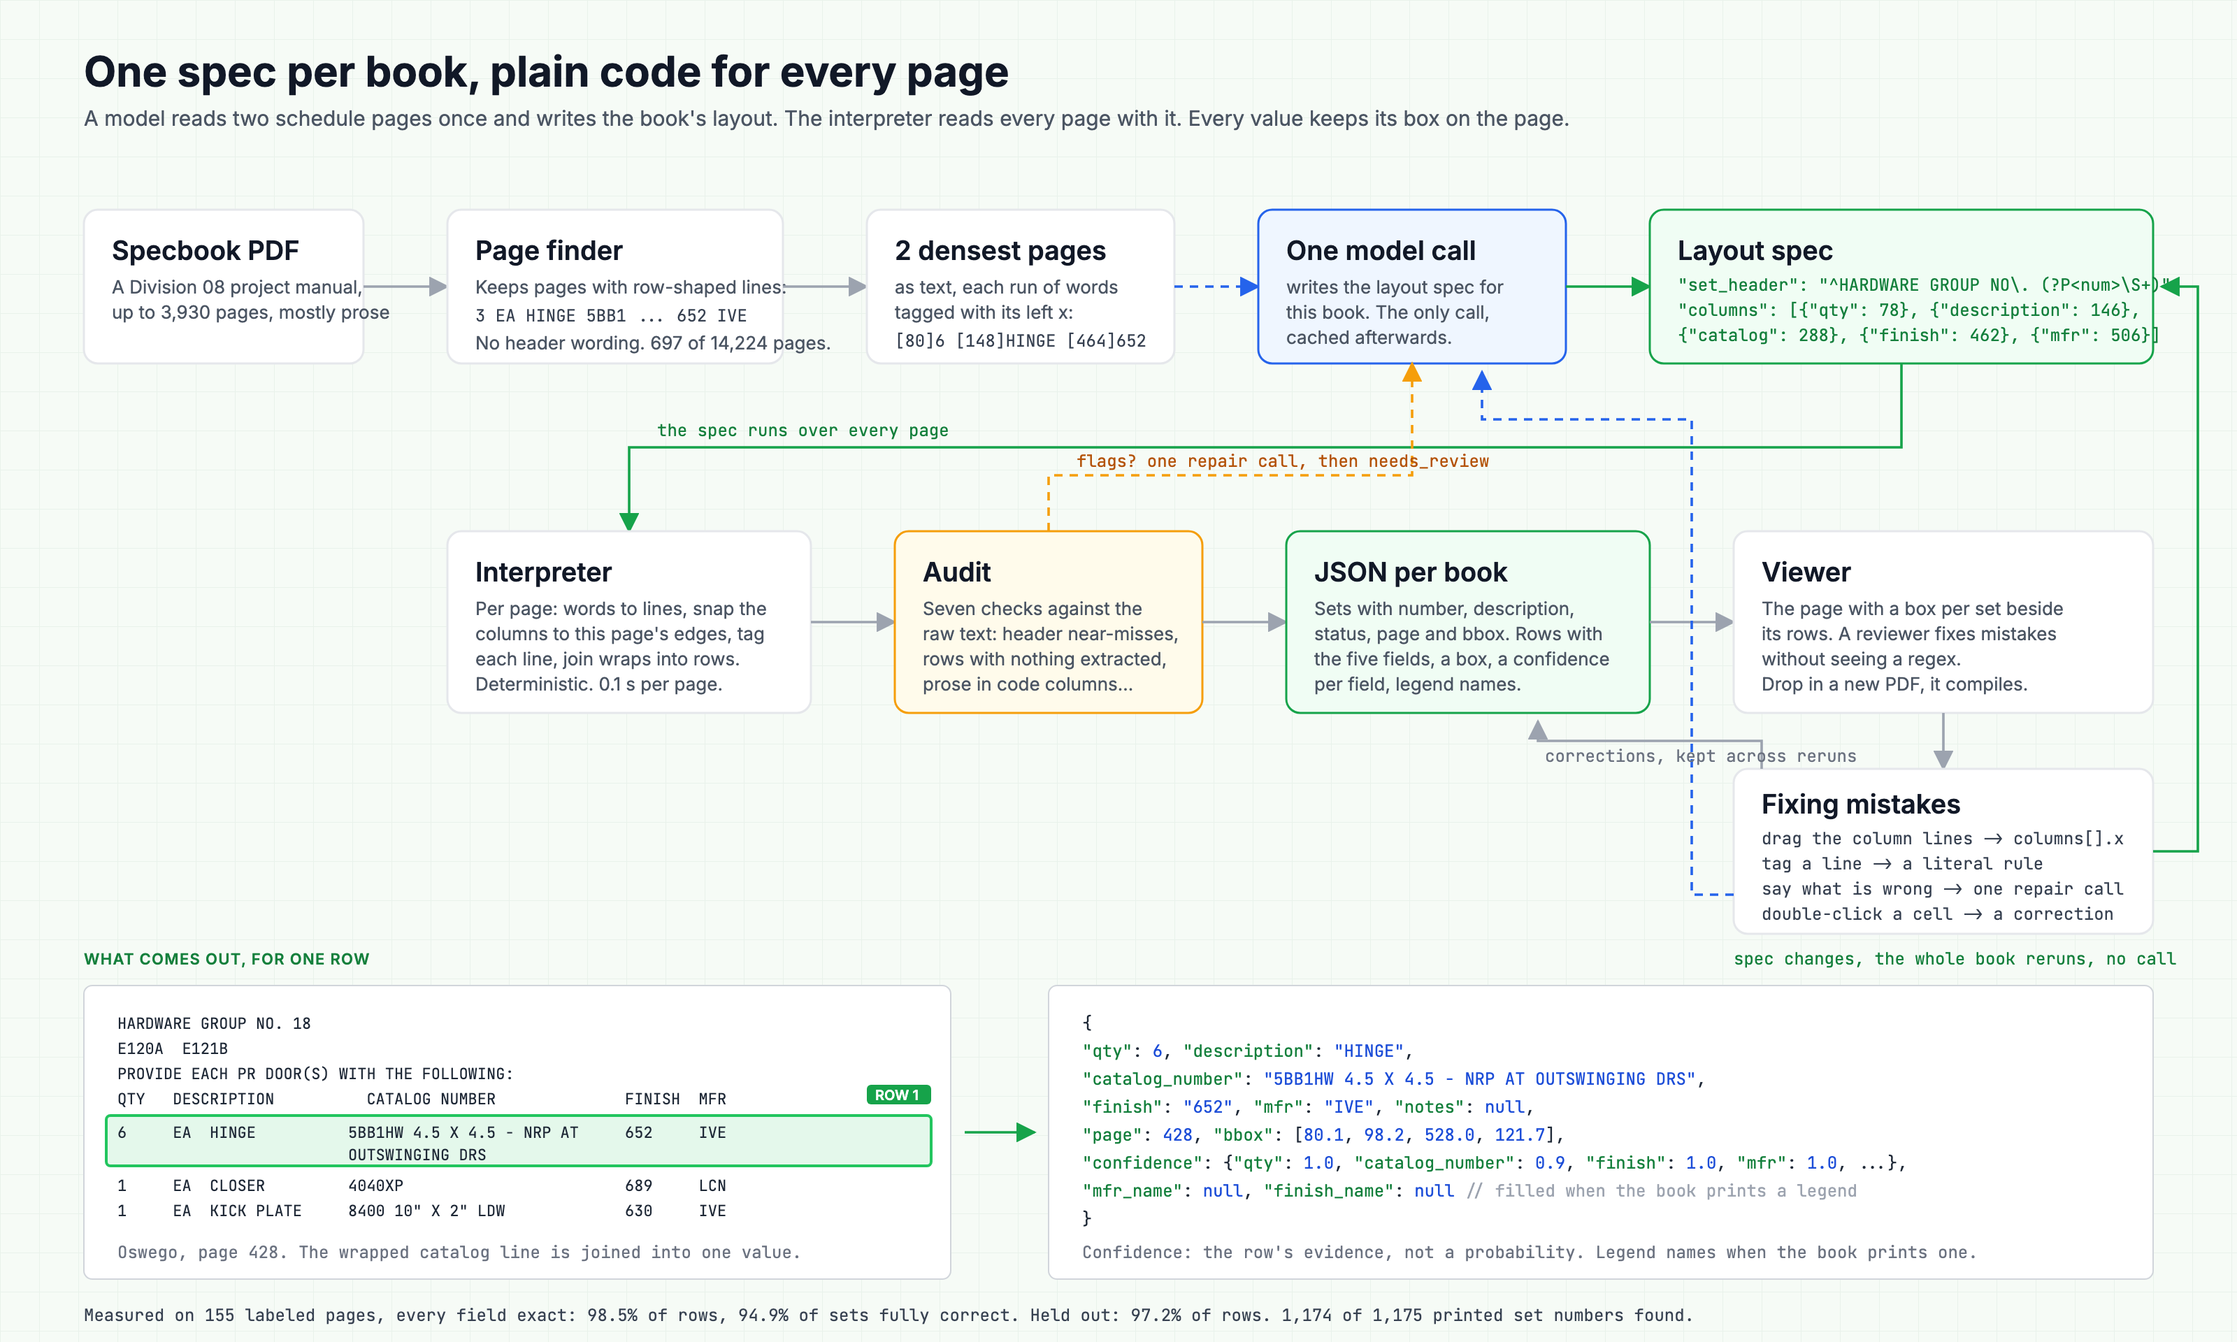
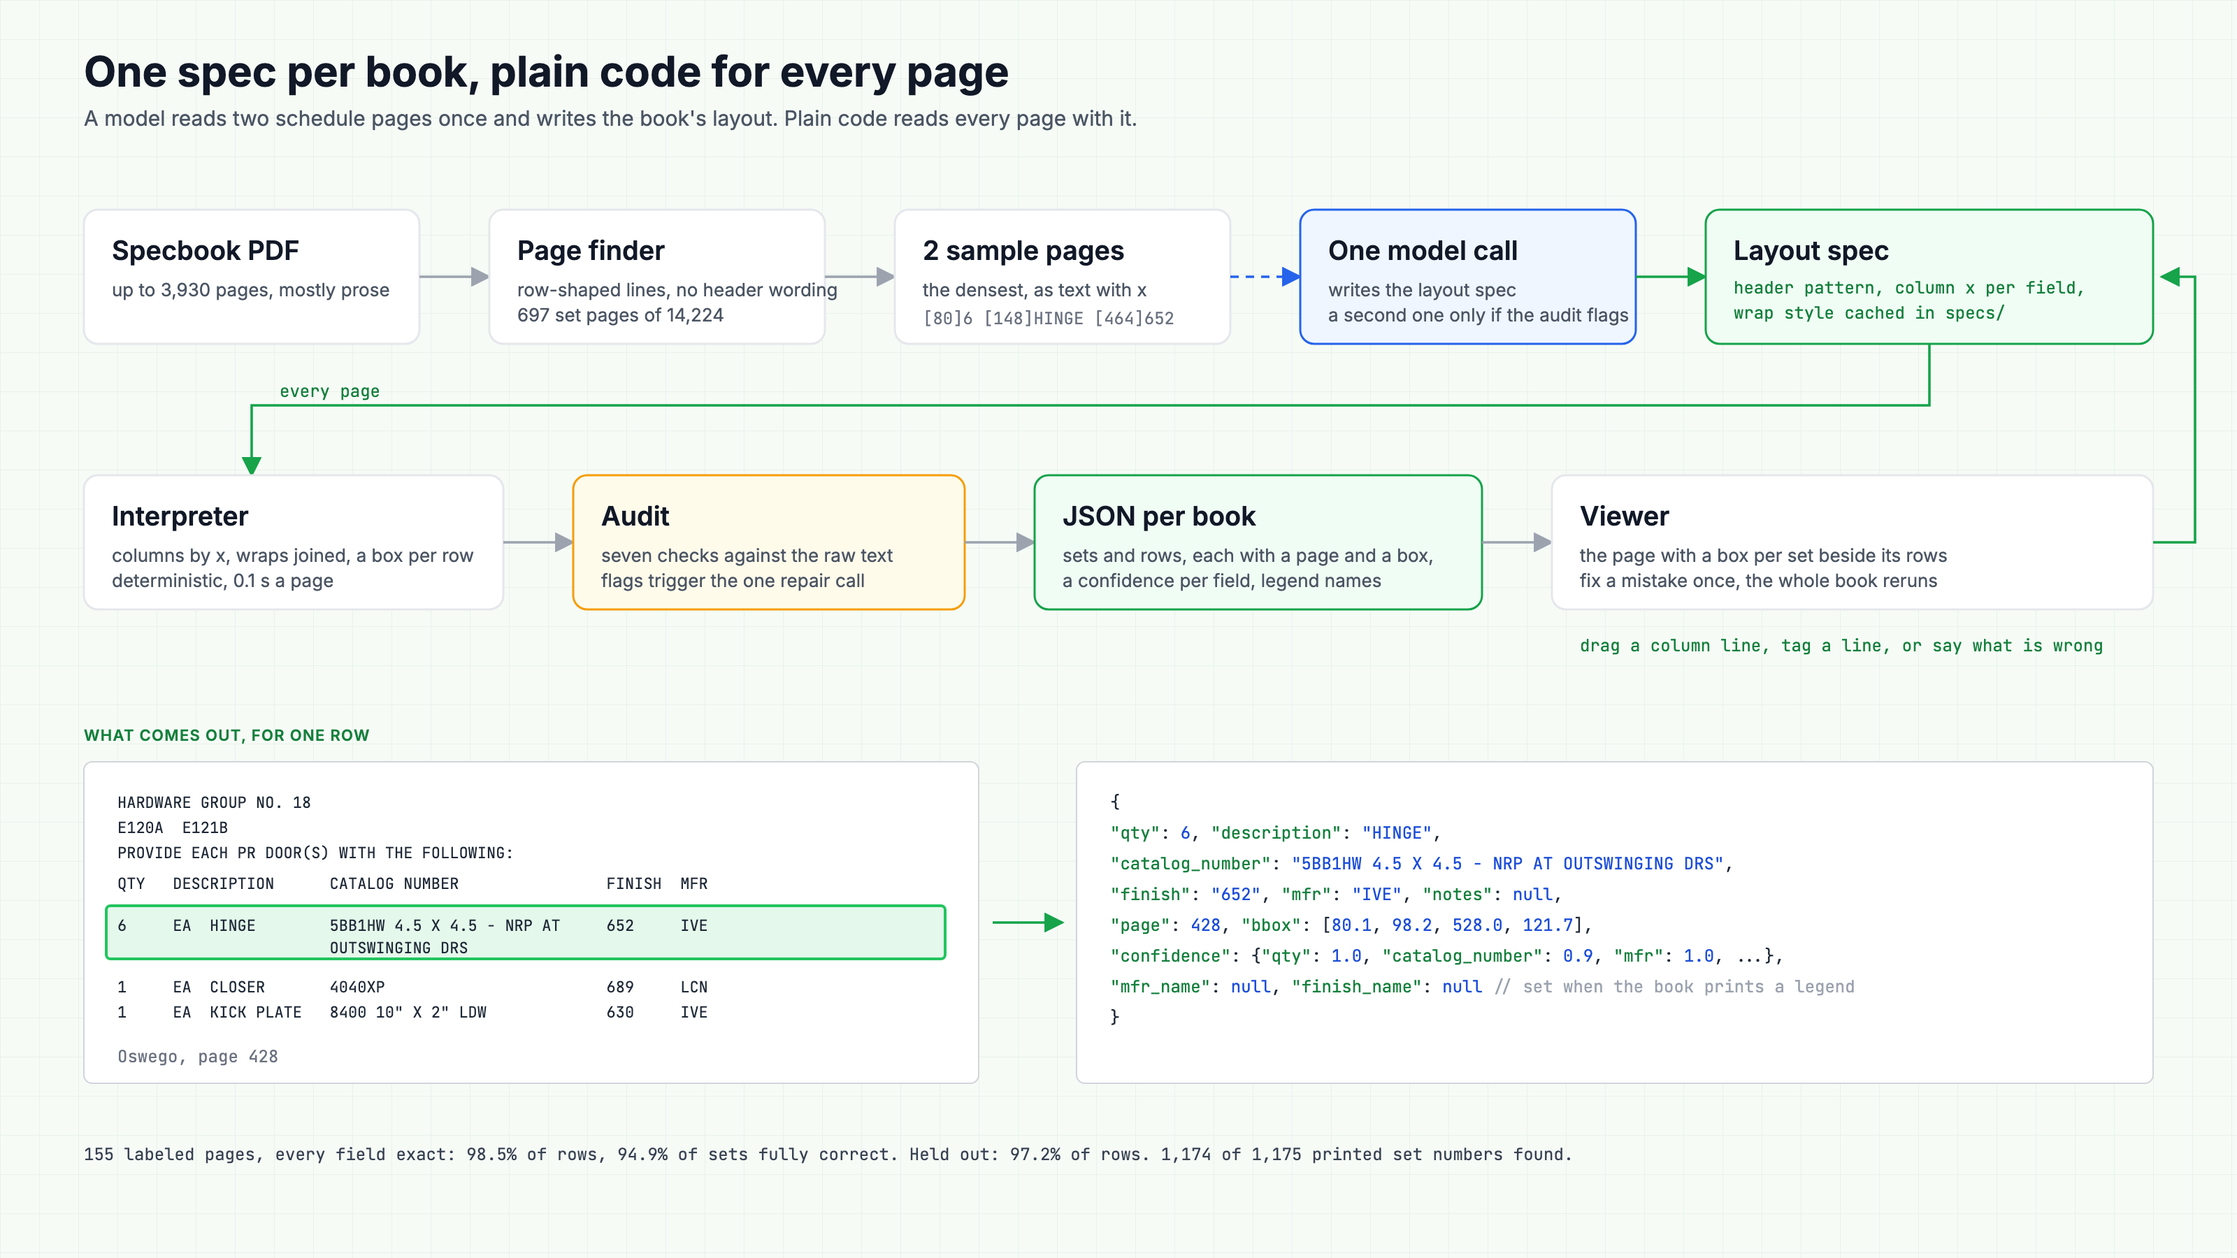
Architecture diagram: short boxes, nine arrows

diff --git a/docs/diagrams/architecture.html b/docs/diagrams/architecture.html
@@ -41,155 +41,116 @@
 </style>
 </head>
 <body>
-<svg width="1600" height="960" viewBox="0 0 1600 960" xmlns="http://www.w3.org/2000/svg">
+<svg width="1600" height="900" viewBox="0 0 1600 900" xmlns="http://www.w3.org/2000/svg">
   <defs>
     <marker id="head" viewBox="0 0 10 10" refX="9" refY="5" markerWidth="8" markerHeight="8" orient="auto-start-reverse"><path d="M0 0L10 5 0 10z" fill="#9ca3af"/></marker>
     <marker id="head-green" viewBox="0 0 10 10" refX="9" refY="5" markerWidth="8" markerHeight="8" orient="auto-start-reverse"><path d="M0 0L10 5 0 10z" fill="#16a34a"/></marker>
     <marker id="head-blue" viewBox="0 0 10 10" refX="9" refY="5" markerWidth="8" markerHeight="8" orient="auto-start-reverse"><path d="M0 0L10 5 0 10z" fill="#2563eb"/></marker>
-    <marker id="head-amber" viewBox="0 0 10 10" refX="9" refY="5" markerWidth="8" markerHeight="8" orient="auto-start-reverse"><path d="M0 0L10 5 0 10z" fill="#f59e0b"/></marker>
     <pattern id="g" width="28" height="28" patternUnits="userSpaceOnUse"><path class="grid" d="M28 0H0V28" fill="none"/></pattern>
   </defs>
-  <rect width="1600" height="960" fill="url(#g)"/>
+  <rect width="1600" height="900" fill="url(#g)"/>
 
-  <!-- heading -->
   <text class="h1" x="60" y="62">One spec per book, plain code for every page</text>
-  <text class="h2" x="60" y="90">A model reads two schedule pages once and writes the book's layout. The interpreter reads every page with it. Every value keeps its box on the page.</text>
+  <text class="h2" x="60" y="90">A model reads two schedule pages once and writes the book's layout. Plain code reads every page with it.</text>
 
-  <!-- row 1: pdf -> finder -> sample pages -> model call -> spec -->
+  <!-- row 1: compile the spec -->
   <g>
-    <rect class="box" x="60" y="150" width="200" height="110" rx="10"/>
+    <rect class="box" x="60" y="150" width="240" height="96" rx="10"/>
     <text class="title" x="80" y="186">Specbook PDF</text>
-    <text class="sub" x="80" y="210">A Division 08 project manual,</text>
-    <text class="sub" x="80" y="228">up to 3,930 pages, mostly prose</text>
+    <text class="sub" x="80" y="212">up to 3,930 pages, mostly prose</text>
   </g>
-  <path class="arrow" d="M260 205 L320 205"/>
-
+  <path class="arrow" d="M300 198 L350 198"/>
   <g>
-    <rect class="box" x="320" y="150" width="240" height="110" rx="10"/>
-    <text class="title" x="340" y="186">Page finder</text>
-    <text class="sub" x="340" y="210">Keeps pages with row-shaped lines:</text>
-    <text class="mono" x="340" y="230">3 EA HINGE 5BB1 ... 652 IVE</text>
-    <text class="sub" x="340" y="250">No header wording. 697 of 14,224 pages.</text>
+    <rect class="box" x="350" y="150" width="240" height="96" rx="10"/>
+    <text class="title" x="370" y="186">Page finder</text>
+    <text class="sub" x="370" y="212">row-shaped lines, no header wording</text>
+    <text class="sub" x="370" y="230">697 set pages of 14,224</text>
   </g>
-  <path class="arrow" d="M560 205 L620 205"/>
-
+  <path class="arrow" d="M590 198 L640 198"/>
   <g>
-    <rect class="box" x="620" y="150" width="220" height="110" rx="10"/>
-    <text class="title" x="640" y="186">2 densest pages</text>
-    <text class="sub" x="640" y="210">as text, each run of words</text>
-    <text class="sub" x="640" y="228">tagged with its left x:</text>
-    <text class="mono" x="640" y="248">[80]6 [148]HINGE [464]652</text>
+    <rect class="box" x="640" y="150" width="240" height="96" rx="10"/>
+    <text class="title" x="660" y="186">2 sample pages</text>
+    <text class="sub" x="660" y="212">the densest, as text with x</text>
+    <text class="mono dim" x="660" y="232">[80]6 [148]HINGE [464]652</text>
   </g>
-  <path class="arrow blue" d="M840 205 L900 205"/>
-
+  <path class="arrow blue" d="M880 198 L930 198"/>
   <g>
-    <rect class="box blue" x="900" y="150" width="220" height="110" rx="10"/>
-    <text class="title" x="920" y="186">One model call</text>
-    <text class="sub" x="920" y="210">writes the layout spec for</text>
-    <text class="sub" x="920" y="228">this book. The only call,</text>
-    <text class="sub" x="920" y="246">cached afterwards.</text>
+    <rect class="box blue" x="930" y="150" width="240" height="96" rx="10"/>
+    <text class="title" x="950" y="186">One model call</text>
+    <text class="sub" x="950" y="212">writes the layout spec</text>
+    <text class="sub" x="950" y="230">a second one only if the audit flags</text>
   </g>
-  <path class="arrow green" d="M1120 205 L1180 205"/>
-
+  <path class="arrow green" d="M1170 198 L1220 198"/>
   <g>
-    <rect class="box green" x="1180" y="150" width="360" height="110" rx="10"/>
-    <text class="title" x="1200" y="186">Layout spec</text>
-    <text class="mono green" x="1200" y="208">"set_header": "^HARDWARE GROUP NO\. (?P&lt;num&gt;\S+)"</text>
-    <text class="mono green" x="1200" y="226">"columns": [{"qty": 78}, {"description": 146},</text>
-    <text class="mono green" x="1200" y="244">   {"catalog": 288}, {"finish": 462}, {"mfr": 506}]</text>
+    <rect class="box green" x="1220" y="150" width="320" height="96" rx="10"/>
+    <text class="title" x="1240" y="186">Layout spec</text>
+    <text class="mono green" x="1240" y="210">header pattern, column x per field,</text>
+    <text class="mono green" x="1240" y="228">wrap style   cached in specs/</text>
   </g>
 
-  <!-- spec down to the interpreter -->
-  <path class="arrow green" d="M1360 260 L1360 320 L450 320 L450 380"/>
-  <text class="mono green" x="470" y="312">the spec runs over every page</text>
+  <!-- the spec feeds every page -->
+  <path class="arrow green" d="M1380 246 L1380 290 L180 290 L180 340"/>
+  <text class="mono green" x="200" y="284">every page</text>
 
-  <!-- row 2: interpreter -> audit -> output -> viewer -->
+  <!-- row 2: read the book -->
   <g>
-    <rect class="box" x="320" y="380" width="260" height="130" rx="10"/>
-    <text class="title" x="340" y="416">Interpreter</text>
-    <text class="sub" x="340" y="440">Per page: words to lines, snap the</text>
-    <text class="sub" x="340" y="458">columns to this page's edges, tag</text>
-    <text class="sub" x="340" y="476">each line, join wraps into rows.</text>
-    <text class="sub" x="340" y="494">Deterministic. 0.1 s per page.</text>
+    <rect class="box" x="60" y="340" width="300" height="96" rx="10"/>
+    <text class="title" x="80" y="376">Interpreter</text>
+    <text class="sub" x="80" y="402">columns by x, wraps joined, a box per row</text>
+    <text class="sub" x="80" y="420">deterministic, 0.1 s a page</text>
   </g>
-  <path class="arrow" d="M580 445 L640 445"/>
-
+  <path class="arrow" d="M360 388 L410 388"/>
   <g>
-    <rect class="box amber" x="640" y="380" width="220" height="130" rx="10"/>
-    <text class="title" x="660" y="416">Audit</text>
-    <text class="sub" x="660" y="440">Seven checks against the</text>
-    <text class="sub" x="660" y="458">raw text: header near-misses,</text>
-    <text class="sub" x="660" y="476">rows with nothing extracted,</text>
-    <text class="sub" x="660" y="494">prose in code columns...</text>
+    <rect class="box amber" x="410" y="340" width="280" height="96" rx="10"/>
+    <text class="title" x="430" y="376">Audit</text>
+    <text class="sub" x="430" y="402">seven checks against the raw text</text>
+    <text class="sub" x="430" y="420">flags trigger the one repair call</text>
   </g>
-  <!-- repair loop back to the model call -->
-  <path class="arrow amber" d="M750 380 L750 340 L1010 340 L1010 260"/>
-  <text class="mono amber" x="770" y="334">flags? one repair call, then needs_review</text>
-  <path class="arrow" d="M860 445 L920 445"/>
-
+  <path class="arrow" d="M690 388 L740 388"/>
   <g>
-    <rect class="box green" x="920" y="380" width="260" height="130" rx="10"/>
-    <text class="title" x="940" y="416">JSON per book</text>
-    <text class="sub" x="940" y="440">Sets with number, description,</text>
-    <text class="sub" x="940" y="458">status, page and bbox. Rows with</text>
-    <text class="sub" x="940" y="476">the five fields, a box, a confidence</text>
-    <text class="sub" x="940" y="494">per field, legend names.</text>
+    <rect class="box green" x="740" y="340" width="320" height="96" rx="10"/>
+    <text class="title" x="760" y="376">JSON per book</text>
+    <text class="sub" x="760" y="402">sets and rows, each with a page and a box,</text>
+    <text class="sub" x="760" y="420">a confidence per field, legend names</text>
   </g>
-  <path class="arrow" d="M1180 445 L1240 445"/>
-
+  <path class="arrow" d="M1060 388 L1110 388"/>
   <g>
-    <rect class="box" x="1240" y="380" width="300" height="130" rx="10"/>
-    <text class="title" x="1260" y="416">Viewer</text>
-    <text class="sub" x="1260" y="440">The page with a box per set beside</text>
-    <text class="sub" x="1260" y="458">its rows. A reviewer fixes mistakes</text>
-    <text class="sub" x="1260" y="476">without seeing a regex.</text>
-    <text class="sub" x="1260" y="494">Drop in a new PDF, it compiles.</text>
+    <rect class="box" x="1110" y="340" width="430" height="96" rx="10"/>
+    <text class="title" x="1130" y="376">Viewer</text>
+    <text class="sub" x="1130" y="402">the page with a box per set beside its rows</text>
+    <text class="sub" x="1130" y="420">fix a mistake once, the whole book reruns</text>
   </g>
+  <!-- fixes go back into the spec -->
+  <path class="arrow green" d="M1540 388 L1570 388 L1570 198 L1546 198"/>
+  <text class="mono green" x="1130" y="466">drag a column line, tag a line, or say what is wrong</text>
 
-  <!-- feedback: a box under the viewer, one path into the spec with no call, one through the model -->
-  <path class="arrow" d="M1390 510 L1390 550"/>
-  <g>
-    <rect class="box" x="1240" y="550" width="300" height="118" rx="10"/>
-    <text class="title" x="1260" y="582">Fixing mistakes</text>
-    <text class="mono" x="1260" y="604">drag the column lines  -> columns[].x</text>
-    <text class="mono" x="1260" y="622">tag a line             -> a literal rule</text>
-    <text class="mono" x="1260" y="640">say what is wrong      -> one repair call</text>
-    <text class="mono" x="1260" y="658">double-click a cell    -> a correction</text>
-  </g>
-  <path class="arrow green" d="M1540 609 L1572 609 L1572 205 L1546 205"/>
-  <text class="mono green" x="1240" y="690">spec changes, the whole book reruns, no call</text>
-  <path class="arrow blue" d="M1240 640 L1210 640 L1210 300 L1060 300 L1060 266"/>
-  <path class="arrow" d="M1260 550 L1260 530 L1100 530 L1100 516"/>
-  <text class="mono dim" x="1105" y="545">corrections, kept across reruns</text>
+  <!-- what comes out, for one row -->
+  <text class="tag" x="60" y="530">WHAT COMES OUT, FOR ONE ROW</text>
+  <rect class="page" x="60" y="545" width="640" height="230" rx="6"/>
+  <text class="pagetext" xml:space="preserve" x="84" y="578">HARDWARE GROUP NO. 18</text>
+  <text class="pagetext" xml:space="preserve" x="84" y="596">E120A  E121B</text>
+  <text class="pagetext" xml:space="preserve" x="84" y="614">PROVIDE EACH PR DOOR(S) WITH THE FOLLOWING:</text>
+  <text class="pagetext" xml:space="preserve" x="84" y="636">QTY   DESCRIPTION      CATALOG NUMBER                FINISH  MFR</text>
+  <rect class="pagebox" x="76" y="648" width="600" height="38" rx="3"/>
+  <text class="pagetext" xml:space="preserve" x="84" y="666">6     EA  HINGE        5BB1HW 4.5 X 4.5 - NRP AT     652     IVE</text>
+  <text class="pagetext" xml:space="preserve" x="84" y="682">                       OUTSWINGING DRS</text>
+  <text class="pagetext" xml:space="preserve" x="84" y="710">1     EA  CLOSER       4040XP                        689     LCN</text>
+  <text class="pagetext" xml:space="preserve" x="84" y="728">1     EA  KICK PLATE   8400 10" X 2" LDW             630     IVE</text>
+  <text class="mono dim" x="84" y="760">Oswego, page 428</text>
 
-  <!-- i/o inset: a row on the page and the json it becomes -->
-  <text class="tag" x="60" y="690">WHAT COMES OUT, FOR ONE ROW</text>
-  <rect class="page" x="60" y="705" width="620" height="210" rx="6"/>
-  <text class="pagetext" xml:space="preserve" x="84" y="736">HARDWARE GROUP NO. 18</text>
-  <text class="pagetext" xml:space="preserve" x="84" y="754">E120A  E121B</text>
-  <text class="pagetext" xml:space="preserve" x="84" y="772">PROVIDE EACH PR DOOR(S) WITH THE FOLLOWING:</text>
-  <text class="pagetext" xml:space="preserve" x="84" y="790">QTY   DESCRIPTION          CATALOG NUMBER              FINISH  MFR</text>
-  <rect class="pagebox" x="76" y="798" width="590" height="36" rx="3"/>
-  <rect class="pagetag" x="620" y="776" width="46" height="14" rx="3"/><text class="pagetag-t" x="626" y="787">ROW 1</text>
-  <text class="pagetext" xml:space="preserve" x="84" y="814">6     EA  HINGE          5BB1HW 4.5 X 4.5 - NRP AT     652     IVE</text>
-  <text class="pagetext" xml:space="preserve" x="84" y="830">                         OUTSWINGING DRS</text>
-  <text class="pagetext" xml:space="preserve" x="84" y="852">1     EA  CLOSER         4040XP                        689     LCN</text>
-  <text class="pagetext" xml:space="preserve" x="84" y="870">1     EA  KICK PLATE     8400 10" X 2" LDW             630     IVE</text>
-  <text class="mono dim" x="84" y="900">Oswego, page 428. The wrapped catalog line is joined into one value.</text>
+  <path class="arrow green" d="M710 660 L760 660"/>
 
-  <path class="arrow green" d="M690 810 L740 810"/>
+  <rect class="page" x="770" y="545" width="770" height="230" rx="6"/>
+  <text class="json" x="794" y="578">{</text>
+  <text class="json" x="794" y="600">  <tspan class="k">"qty"</tspan>: <tspan class="v">6</tspan>, <tspan class="k">"description"</tspan>: <tspan class="v">"HINGE"</tspan>,</text>
+  <text class="json" x="794" y="622">  <tspan class="k">"catalog_number"</tspan>: <tspan class="v">"5BB1HW 4.5 X 4.5 - NRP AT OUTSWINGING DRS"</tspan>,</text>
+  <text class="json" x="794" y="644">  <tspan class="k">"finish"</tspan>: <tspan class="v">"652"</tspan>, <tspan class="k">"mfr"</tspan>: <tspan class="v">"IVE"</tspan>, <tspan class="k">"notes"</tspan>: <tspan class="v">null</tspan>,</text>
+  <text class="json" x="794" y="666">  <tspan class="k">"page"</tspan>: <tspan class="v">428</tspan>, <tspan class="k">"bbox"</tspan>: [<tspan class="v">80.1</tspan>, <tspan class="v">98.2</tspan>, <tspan class="v">528.0</tspan>, <tspan class="v">121.7</tspan>],</text>
+  <text class="json" x="794" y="688">  <tspan class="k">"confidence"</tspan>: {<tspan class="k">"qty"</tspan>: <tspan class="v">1.0</tspan>, <tspan class="k">"catalog_number"</tspan>: <tspan class="v">0.9</tspan>, <tspan class="k">"mfr"</tspan>: <tspan class="v">1.0</tspan>, ...},</text>
+  <text class="json" x="794" y="710">  <tspan class="k">"mfr_name"</tspan>: <tspan class="v">null</tspan>, <tspan class="k">"finish_name"</tspan>: <tspan class="v">null</tspan>  <tspan class="c">// set when the book prints a legend</tspan></text>
+  <text class="json" x="794" y="732">}</text>
 
-  <rect class="page" x="750" y="705" width="790" height="210" rx="6"/>
-  <text class="json" x="774" y="736">{</text>
-  <text class="json" x="774" y="756">  <tspan class="k">"qty"</tspan>: <tspan class="v">6</tspan>, <tspan class="k">"description"</tspan>: <tspan class="v">"HINGE"</tspan>,</text>
-  <text class="json" x="774" y="776">  <tspan class="k">"catalog_number"</tspan>: <tspan class="v">"5BB1HW 4.5 X 4.5 - NRP AT OUTSWINGING DRS"</tspan>,</text>
-  <text class="json" x="774" y="796">  <tspan class="k">"finish"</tspan>: <tspan class="v">"652"</tspan>, <tspan class="k">"mfr"</tspan>: <tspan class="v">"IVE"</tspan>, <tspan class="k">"notes"</tspan>: <tspan class="v">null</tspan>,</text>
-  <text class="json" x="774" y="816">  <tspan class="k">"page"</tspan>: <tspan class="v">428</tspan>, <tspan class="k">"bbox"</tspan>: [<tspan class="v">80.1</tspan>, <tspan class="v">98.2</tspan>, <tspan class="v">528.0</tspan>, <tspan class="v">121.7</tspan>],</text>
-  <text class="json" x="774" y="836">  <tspan class="k">"confidence"</tspan>: {<tspan class="k">"qty"</tspan>: <tspan class="v">1.0</tspan>, <tspan class="k">"catalog_number"</tspan>: <tspan class="v">0.9</tspan>, <tspan class="k">"finish"</tspan>: <tspan class="v">1.0</tspan>, <tspan class="k">"mfr"</tspan>: <tspan class="v">1.0</tspan>, ...},</text>
-  <text class="json" x="774" y="856">  <tspan class="k">"mfr_name"</tspan>: <tspan class="v">null</tspan>, <tspan class="k">"finish_name"</tspan>: <tspan class="v">null</tspan>   <tspan class="c">// filled when the book prints a legend</tspan></text>
-  <text class="json" x="774" y="876">}</text>
-  <text class="mono dim" x="774" y="900">Confidence: the row's evidence, not a probability. Legend names when the book prints one.</text>
-  <text class="mono" x="60" y="945">Measured on 155 labeled pages, every field exact: 98.5% of rows, 94.9% of sets fully correct. Held out: 97.2% of rows. 1,174 of 1,175 printed set numbers found.</text>
+  <text class="mono" x="60" y="830">155 labeled pages, every field exact: 98.5% of rows, 94.9% of sets fully correct. Held out: 97.2% of rows. 1,174 of 1,175 printed set numbers found.</text>
 </svg>
 </body>
 </html>
